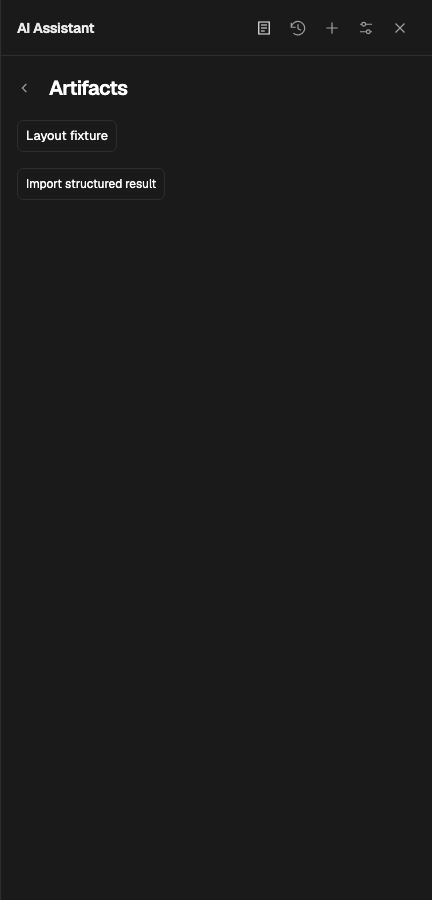
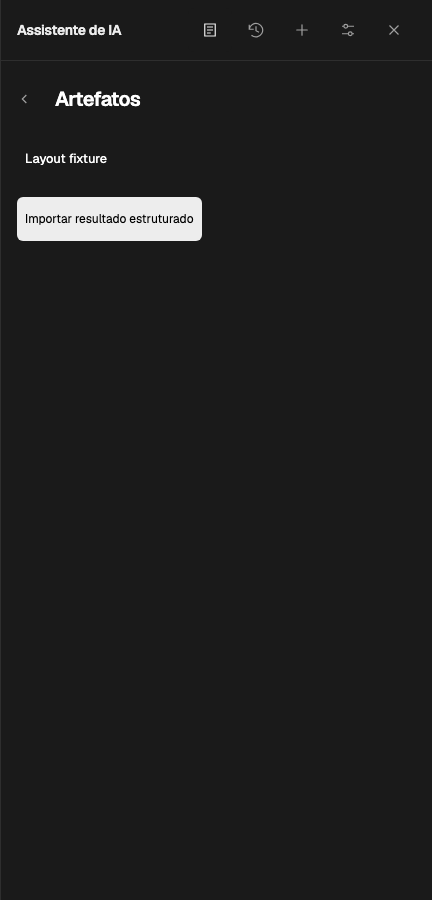
docs(assistant): record complete workspace boundary audit and renders

diff --git a/docs/explorations/2026-10-20-workspace-boundary-audit.md b/docs/explorations/2026-10-20-workspace-boundary-audit.md
@@ -1,0 +1,108 @@
+# Models, Sources and Artifacts boundary audit
+
+Date: 2026-10-20. Baseline: `4ed5d28a`.
+
+## Scope and evidence
+
+The requested outcome is a consistent flat workspace across complete views and expanded
+states. The user explicitly asks to apply the distinct-boundary standard beyond History.
+
+| Finding                                                              | Evidence grade                                                                                                                           | Decision                                                                                              |
+| -------------------------------------------------------------------- | ---------------------------------------------------------------------------------------------------------------------------------------- | ----------------------------------------------------------------------------------------------------- |
+| Model device/service sections already have no card frame             | Code fact: `styles/assistant.css`, `.agent-use-card` / `.agent-service-section`; runtime fact: baseline Models and service screenshots   | Retain flat containers and functional picker/endpoint field frames                                    |
+| Cache rows and settings disclosures stack rules with existing gaps   | Code fact: `.agent-model-cache`, `.agent-model-cache-row`, `.agent-preferences`; runtime fact: baseline Models                           | Use existing summary headings and spacing; remove decorative rules and duplicate group inset          |
+| Source rows touch the search field; each removal has its own outline | Runtime fact: baseline `sources.png` / `source-search-preview.png`; code fact: `.agent-source-row` and blanket workspace button border   | Separate search/results with a group gap, top-align expanded previews and use a quiet removal command |
+| All artifact/workspace commands inherit an outline                   | Code fact: shared `.agent-workspace-view button, .agent-artifacts button`; runtime fact: baseline text/table/slides/revision screenshots | Remove blanket command framing, give explicit primary/destructive roles their own states              |
+| Structured data and revision previews already use flat viewports     | Code fact: `.agent-artifact-data-preview`, `.agent-artifact-workflow`; runtime fact: baseline structured/revision screenshots            | Keep table row rules, bounded scrolling, diff feedback and field/focus cues                           |
+
+Baseline: all 13 existing source/artifact/revision/workspace browser cases passed.
+The audit includes full-page screenshots, not just cropped buttons.
+
+## Allowed changes and compatibility
+
+Allowed: `styles/assistant.css`; semantic attach/remove classes in
+`lib/agent-plugin/ui/sources-view.ts`; existing source/artifact/revision/workspace/layout
+browser acceptance and screenshots; `docs/design-system.md`, this record, and media under
+`docs/media/assistant-layout/`.
+
+Unchanged: runtime/store/provider ownership, persisted schemas, requests, model downloads,
+document writes, public APIs, dependencies, foundation values and vendor code. Preserve
+drafts, selection, async cancellation, downloads, native disclosure/keyboard semantics,
+danger confirmation, disabled states, layout rails and 44px coarse-pointer targets.
+
+## Composition decisions
+
+- Models: rely on disclosure titles and the existing 16px section gap. Cached entries use
+  proximity rather than row rules. Endpoint and model fields retain their control frames.
+- Sources: the search frame identifies editable input, the attached list is a separate
+  flat region, and an expanded excerpt keeps its own bounded scroll viewport. Remove
+  stays beside the source title instead of centering against the entire expanded excerpt.
+  Attach file is the explicit primary entry action.
+- Artifacts: saved results are full-width flat rows. Import/Save/Use in draft have primary
+  roles; ordinary review/export/page/revision controls use quiet hover/focus surfaces.
+  Delete has a quiet danger role and explicit confirmation has a solid danger role.
+- Data and editing: table row rules convey cell relationships; JSON/import fields and
+  the revision instruction remain identifiable inputs. No replacement card, added group
+  fill, nested shadow or additional shared component is needed.
+
+## Acceptance
+
+Run the existing complete source/artifact, AI revision, workspace and alignment suites.
+Inspect local/service Models, empty/populated cached inventory, expanded preferences,
+source attachment/search/preview/removal/offline/recovery, artifact empty/list/import,
+text/table/slides/edit/export/revision/confirmation states. Check light/dark, desktop,
+360px/320px, English/Portuguese, coarse input, focus, disabled and busy states.
+
+Keep boundary evidence and representative renders here. Verify type/lint, formatting,
+the production build and relevant source-view/runtime tests if markup changes. Review
+both ordinary and explicit destructive/primary states before updating the existing PR.
+
+## Inspected state inventory
+
+| View                  | States exercised                                                                                                                          | Boundary decision                                                                                                    |
+| --------------------- | ----------------------------------------------------------------------------------------------------------------------------------------- | -------------------------------------------------------------------------------------------------------------------- |
+| Models                | Local and service configuration, cached GGUF entry, expanded preferences/custom fields, delete/cancel/pending, offline availability       | No section/entry rules or outer cards; preserve actual picker/field/control surfaces and disabled/danger roles       |
+| Sources               | Empty, attached file, open excerpt, search highlight, removal, attachment limit/error recovery, pending read cancellation and offline use | Search and results separated by a 16px gap; title and Remove stay together while the excerpt expands; no result card |
+| Artifacts list/import | Empty, populated list, return to list, title/JSON import and validation recovery                                                          | Full-width flat list rows; explicit Import/Save entry roles; retain editable field cues                              |
+| Artifact editor       | Text and versions, dirty discard/cancel, export formats, delete confirmation/cancel and continued draft                                   | Quiet ordinary commands, primary saves, quiet danger intent and solid destructive confirmation                       |
+| Structured results    | Editable table and slides, pagination, offline CSV export, complete payload preservation                                                  | Keep data row relationships and bounded viewport; remove outlines from page/export commands                          |
+| AI revision           | Instruction input, selection/full scope, waiting, proposal diff, accept/discard/stop, stale edits and conflict recovery                   | Flat disclosure/form/proposal with functional input and diff feedback; no nested card                                |
+
+## Representative renders
+
+![Expanded Models inventory and preferences](../media/assistant-layout/2026-10-20-models-expanded-light.png)
+
+![Expanded Models in dark mode](../media/assistant-layout/2026-10-20-models-expanded-dark.png)
+
+![Sources search and expanded reference](../media/assistant-layout/2026-10-20-sources-expanded-light.png)
+
+![Artifact text editor and expanded export](../media/assistant-layout/2026-10-20-artifacts-export-light.png)
+
+![Structured table in dark mode](../media/assistant-layout/2026-10-20-artifacts-table-dark.png)
+
+![Artifact revision proposal](../media/assistant-layout/2026-10-20-artifacts-revision-light.png)
+
+![Explicit artifact deletion confirmation](../media/assistant-layout/2026-10-20-artifacts-confirm-dark.png)
+
+## Verification
+
+- Baseline: 13 source/artifact/revision/workspace cases passed.
+- Final Chromium: all 20 cases passed, including the seven alignment/onboarding cases.
+- Final Firefox/WebKit: all 26 source/artifact/revision/workspace cases passed.
+- All browser runs disabled retries. Rendered states cover both themes, desktop and
+  360px/320px widths, English/Portuguese, keyboard return, coarse input and actual exports.
+- `pnpm lint:ts`, production build, changed-file formatting and `git diff --check` passed.
+  Archive validation retained all 1,511 immutable evaluation artifacts.
+- Independent review found no actionable issues. Whole views, expanded states, explicit
+  primary/danger/disabled states and the retained functional field/focus boundaries were reviewed.
+- Final `pnpm test`: 252 files / 6,801 tests passed. The two existing non-fatal
+  `PromiseRejectionHandledWarning` messages were unchanged.
+
+Rendered follow-up found a remaining raised-button base on Models cache commands: making
+the documented content part transparent left the ranui host's default shadow visible.
+The application now uses the existing public `--ran-btn-box-shadow` and
+`--ran-btn-surface-background` hooks to remove that decorative layer. A real-host shadow
+assertion first failed with the inherited raised shadow, establishing the regression.
+Functional component borders, primary fills, focus and coarse targets remain separate.
+After that final adjustment, the cache use/delete/cancel/pending case passed again in
+Chromium, Firefox and WebKit without retries; expanded Models captures were refreshed.

diff --git a/docs/design-system.md b/docs/design-system.md
@@ -275,3 +275,19 @@ would repeat those relationships. Models picker frames, Sources search/attachmen
 and Artifacts form fields keep their functional control boundaries. Do not remove every
 border globally, add transparent borders to preserve obsolete card insets, or require a
 decorative group outline in acceptance.
+
+### Models, Sources and Artifacts
+
+Apply the same boundary review to each complete view and its expanded states:
+
+| Surface   | Flat composition                                                                                                                                 | Functional boundaries retained                                                                                                                                |
+| --------- | ------------------------------------------------------------------------------------------------------------------------------------------------ | ------------------------------------------------------------------------------------------------------------------------------------------------------------- |
+| Models    | Device/service containers, cached entries and preferences use headings and the existing group gap; no extra disclosure/row rules                 | Model/source pickers, endpoint/custom fields, focus and explicit load/connect/delete states                                                                   |
+| Sources   | Separate the attached list from search by 16px; keep removal beside the title while the excerpt expands; no result card or remove-button outline | Search input, native disclosure and bounded excerpt scrolling; Attach file is the primary entry action                                                        |
+| Artifacts | Full-width saved-result rows; quiet ordinary review/export/page/revision controls; no blanket button outlines                                    | Import/Save/Use in draft primary roles, editable fields, structured table row relationships, revision input/diff, focus and explicit destructive confirmation |
+
+Use application danger foreground roles for quiet destructive labels and their hover/active
+states. Disabled commands keep their own disabled role and do not inherit an enabled fill.
+Do not infer that every control is a secondary outlined button from its ancestor view class.
+Role-specific styling belongs to the actual action. The full state inventory, renders and
+verification are recorded in [the workspace boundary audit](explorations/2026-10-20-workspace-boundary-audit.md).
